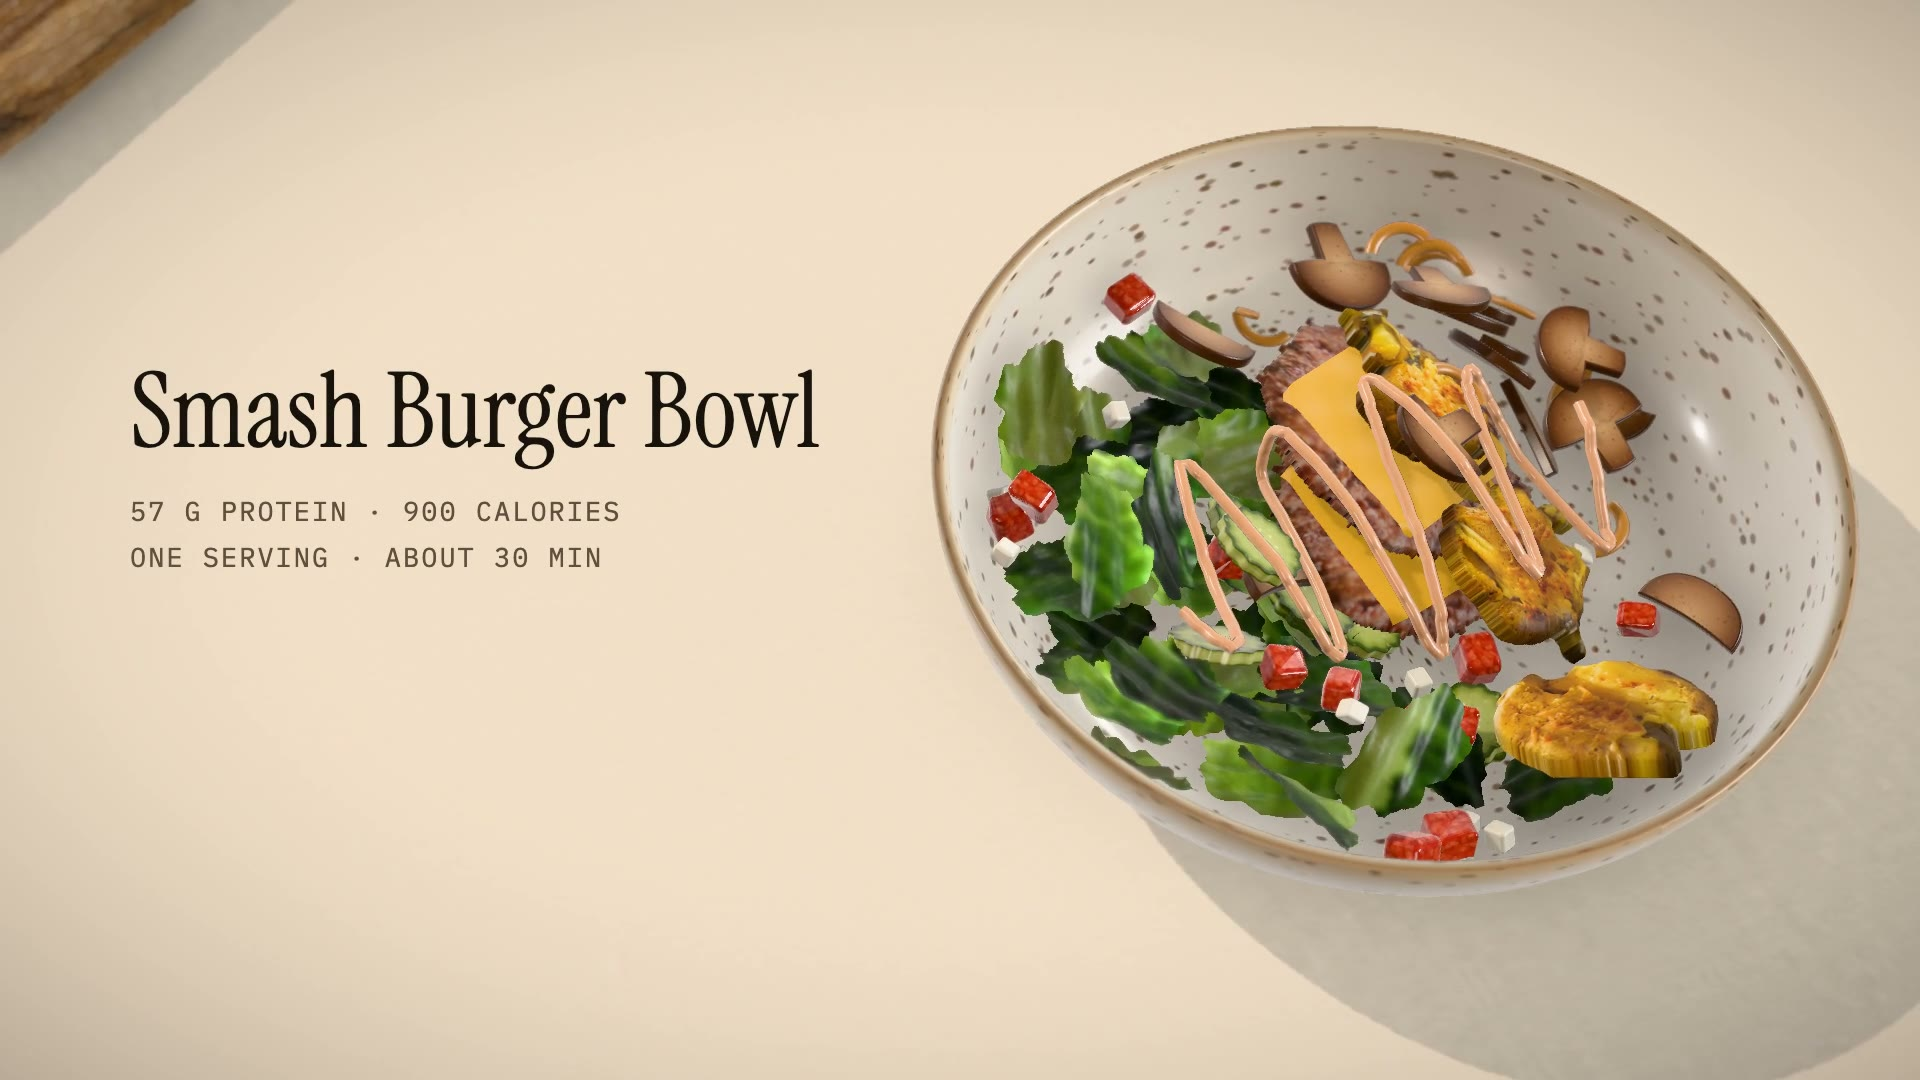
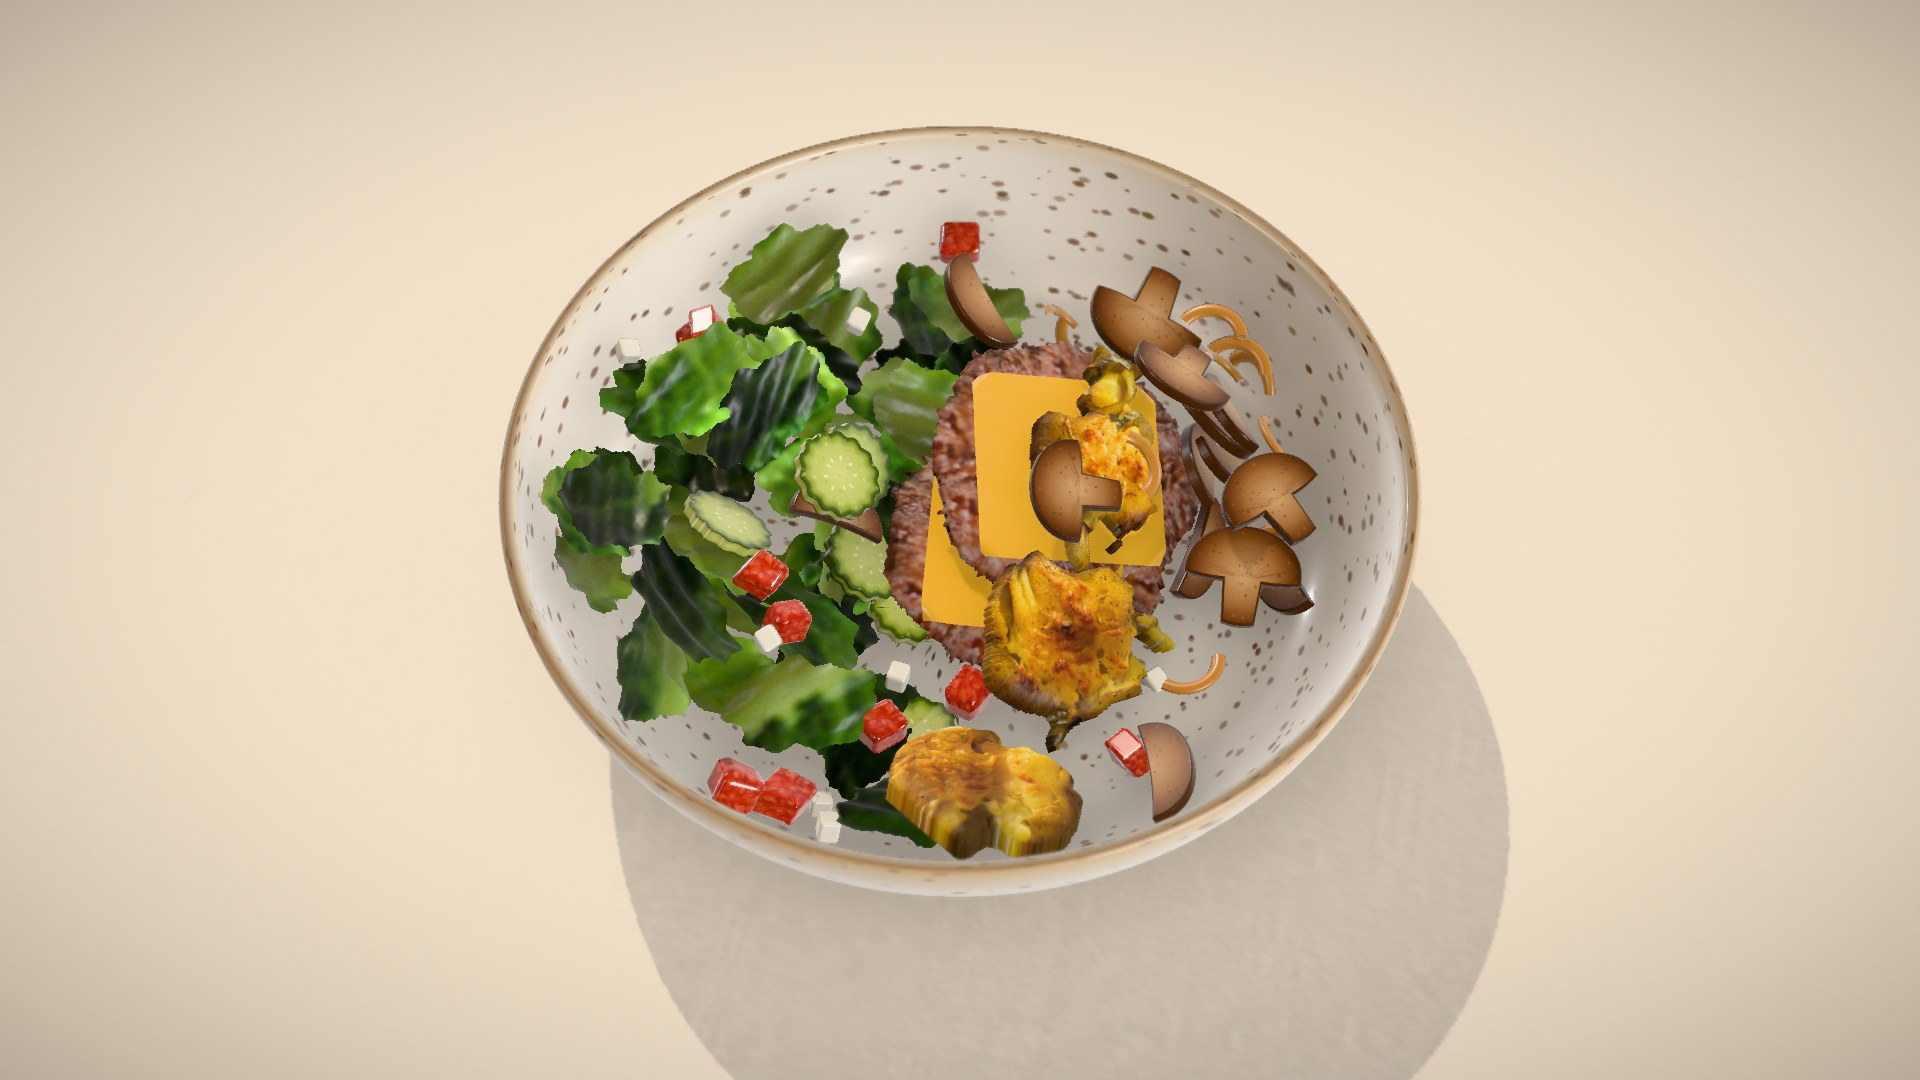
Feature the how-to video beside the recipe title, without a credits list
Liam: the video was tacked onto the bottom of the page, and the credits list under it
was more than the page needs.

- The video now sits beside the title on wider screens and right under the recipe
  details on a phone, framed and with a short caption.
- Its poster is the finished bowl with no text, a new smash-burger-bowl-poster still
  that render.mjs renders. It no longer repeats the title next to the page's own.
- The credits list and the video.credits field are gone. Sources and licenses stay in
  video/CREDITS.md.

diff --git a/app/recipes/[slug]/page.tsx b/app/recipes/[slug]/page.tsx
@@ -101,7 +101,6 @@ function RecipeContent({ recipe }: { recipe: Recipe }) {
         <Steps recipe={recipe} />
       </div>
 
-      {recipe.video && <HowToVideo video={recipe.video} title={recipe.title} />}
       {recipe.image && <RecipePhoto image={recipe.image} />}
       <Tags tags={recipe.tags} />
 
@@ -115,7 +114,7 @@ function RecipeContent({ recipe }: { recipe: Recipe }) {
 }
 
 /* ------------------------------------------------------------------ */
-/* Header - title, summary, version choice, meta row                   */
+/* Header - title, summary, version choice, meta row, and the video    */
 /* ------------------------------------------------------------------ */
 
 function RecipeHeader({ recipe }: { recipe: Recipe }) {
@@ -144,25 +143,32 @@ function RecipeHeader({ recipe }: { recipe: Recipe }) {
       </div>
       <CookModeStatus className="mt-3 text-[16px] text-white/80" />
 
-      <h1 className="recipe-title display-serif mt-5 text-[clamp(2.5rem,6vw,5rem)] leading-[1] text-white">
-        {recipe.title}
-      </h1>
-      <p className="recipe-summary mt-4 max-w-[46rem] font-serif text-[clamp(1.125rem,1.6vw,1.375rem)] leading-[1.3] text-white/75">
-        {recipe.summary}
-      </p>
-      <VersionPicker className="mt-6" />
+      {/* With a video, it sits beside the title on wider screens and under the details
+          on a phone, so it is the first thing after the recipe's name. */}
+      <div className={recipe.video ? "lg:grid lg:grid-cols-12 lg:items-start lg:gap-12" : undefined}>
+        <div className={recipe.video ? "lg:col-span-6 xl:col-span-7" : undefined}>
+          <h1 className="recipe-title display-serif mt-5 text-[clamp(2.5rem,6vw,5rem)] leading-[1] text-white">
+            {recipe.title}
+          </h1>
+          <p className="recipe-summary mt-4 max-w-[46rem] font-serif text-[clamp(1.125rem,1.6vw,1.375rem)] leading-[1.3] text-white/75">
+            {recipe.summary}
+          </p>
+          <VersionPicker className="mt-6" />
 
-      <dl className="recipe-meta mt-6 flex flex-wrap gap-x-7 gap-y-2">
-        {meta.map((m) => (
-          <div key={m.label} className="flex items-baseline gap-2">
-            <dt className="text-[14px] uppercase tracking-[0.06em] text-white/60">{m.label}</dt>
-            <dd className="text-[17px] text-white">{m.value}</dd>
-          </div>
-        ))}
-      </dl>
-      {recipe.servingsNote && (
-        <p className="recipe-serving-note mt-2 text-[15px] text-white/60">{recipe.servingsNote}</p>
-      )}
+          <dl className="recipe-meta mt-6 flex flex-wrap gap-x-7 gap-y-2">
+            {meta.map((m) => (
+              <div key={m.label} className="flex items-baseline gap-2">
+                <dt className="text-[14px] uppercase tracking-[0.06em] text-white/60">{m.label}</dt>
+                <dd className="text-[17px] text-white">{m.value}</dd>
+              </div>
+            ))}
+          </dl>
+          {recipe.servingsNote && (
+            <p className="recipe-serving-note mt-2 text-[15px] text-white/60">{recipe.servingsNote}</p>
+          )}
+        </div>
+        {recipe.video && <HowToVideo video={recipe.video} title={recipe.title} className="mt-8 lg:col-span-6 lg:mt-6 xl:col-span-5" />}
+      </div>
     </header>
   );
 }
@@ -219,30 +225,21 @@ function Tags({ tags }: { tags: string[] }) {
 /* How-to video (screen only)                                          */
 /* ------------------------------------------------------------------ */
 
-function HowToVideo({ video, title }: { video: RecipeVideo; title: string }) {
+function HowToVideo({ video, title, className = "" }: { video: RecipeVideo; title: string; className?: string }) {
   return (
-    <section aria-labelledby="how-to" className="print-hidden mt-16 md:mt-20">
-      <h2 id="how-to" className="section-tag text-white/60">
-        WATCH THE HOW-TO
-      </h2>
+    <figure className={`recipe-video print-hidden ${className}`}>
       <video
         controls
         playsInline
         preload="none"
         poster={video.poster}
         aria-label={`${title}: narrated step-by-step how-to video, with captions`}
-        className="mt-6 aspect-video w-full bg-white/5"
+        className="aspect-video w-full border border-white/15 bg-[#efe8dc] shadow-[0_24px_60px_rgba(0,0,0,0.5)]"
       >
         <source src={video.src} type="video/mp4" />
       </video>
-      {video.credits.length > 0 && (
-        <ul className="mt-4 space-y-1 text-sm text-white/45">
-          {video.credits.map((line) => (
-            <li key={line}>{line}</li>
-          ))}
-        </ul>
-      )}
-    </section>
+      <figcaption className="mt-3 text-[13px] uppercase tracking-[0.08em] text-white/60">Watch it made, start to finish</figcaption>
+    </figure>
   );
 }
 

diff --git a/tests/recipes.test.ts b/tests/recipes.test.ts
@@ -203,8 +203,6 @@ test("requires a local image to exist in the public folder", () => {
 const MEDIA = `video:
   src: "/recipes/test-bowl/how-to.mp4"
   poster: "/recipes/test-bowl/how-to-poster.jpg"
-  credits:
-    - "Music: a track by someone on Freesound (CC0)"
 `;
 
 test("accepts a video only when its files are in the public folder", () => {
@@ -218,16 +216,11 @@ test("accepts a video only when its files are in the public folder", () => {
   }
   const [r] = loadRecipes(dir, publicDir);
   assert.equal(r.video?.poster, "/recipes/test-bowl/how-to-poster.jpg");
-  assert.deepEqual(r.video?.credits, ["Music: a track by someone on Freesound (CC0)"]);
 });
 
-test("rejects a video that is not a path in the public folder, or credits that are not text", () => {
+test("rejects a video that is not a path in the public folder", () => {
   const remote = MEDIA.replace('"/recipes/test-bowl/how-to.mp4"', '"https://example.com/a.mp4"');
   assert.match(problems(edit("tags: [quick]", `${remote}tags: [quick]`)), /video\.src must be a path in the public folder/);
-  const badCredit = MEDIA.replace('    - "Music: a track by someone on Freesound (CC0)"', "    - { who: someone }");
-  assert.match(problems(edit("tags: [quick]", `${badCredit}tags: [quick]`)), /video\.credits\[0\]/);
-  const noCredits = MEDIA.replace('  credits:\n    - "Music: a track by someone on Freesound (CC0)"\n', "");
-  assert.deepEqual(parseRecipe(edit("tags: [quick]", `${noCredits}tags: [quick]`), "test-bowl.md").video?.credits, []);
 });
 
 // A second version of the test bowl, named and pointing at the main one.

diff --git a/video/src/Root.tsx b/video/src/Root.tsx
@@ -5,6 +5,7 @@ import { PROOF_FRAMES, ProductShot } from "./proof/ProductShot";
 import { BOWL3D_FRAMES, Bowl3D } from "./proof/Bowl3D";
 import { BOWL_REAL_FRAMES, BowlReal } from "./proof/BowlReal";
 import { HOWTO_FRAMES, HowTo } from "./howto/HowTo";
+import { PosterShot } from "./howto/bowlScenes";
 
 // The v4 how-to video (docs/recipes-media-v4.md): wide for the recipe page, with the
 // recipe's slug as its id, and vertical for phones.
@@ -13,6 +14,7 @@ export function RemotionRoot() {
     <>
       <Composition id="smash-burger-bowl" component={HowTo} durationInFrames={HOWTO_FRAMES} fps={30} width={1920} height={1080} defaultProps={{ draft: false, tall: false }} />
       <Composition id="smash-burger-bowl-vertical" component={HowTo} durationInFrames={HOWTO_FRAMES} fps={30} width={1080} height={1920} defaultProps={{ draft: false, tall: true }} />
+      <Still id="smash-burger-bowl-poster" component={PosterShot} width={1920} height={1080} />
       <Still id="smash-burger-bowl-blueprint" component={BlueprintSheet} width={3200} height={2200} />
       <Composition id="proof-product-shot" component={ProductShot} durationInFrames={PROOF_FRAMES} fps={30} width={1920} height={1080} />
       <Composition id="proof-bowl-3d" component={Bowl3D} durationInFrames={BOWL3D_FRAMES} fps={30} width={1920} height={1080} />

diff --git a/lib/recipes.ts b/lib/recipes.ts
@@ -19,9 +19,8 @@ export type RecipeImage = {
   credit?: string;
   creditUrl?: string;
 };
-/** A short how-to video and its poster frame, both in public/, and credit lines for
- * the photos, models, sounds, and voice it uses. */
-export type RecipeVideo = { src: string; poster: string; credits: string[] };
+/** A short how-to video and its poster frame. Both live in public/. */
+export type RecipeVideo = { src: string; poster: string };
 export type Nutrition = {
   calories: number;
   protein: number;
@@ -315,12 +314,8 @@ export function parseRecipe(source: string, fileName: string): Recipe {
   let video: RecipeVideo | undefined;
   if (top.video !== undefined && top.video !== null) {
     const v = c.object(top.video, "video");
-    c.fields(v, ["src", "poster", "credits"], "video.");
-    video = {
-      src: localPath(c, v, "src", "video."),
-      poster: localPath(c, v, "poster", "video."),
-      credits: c.list(v, "credits", "video.", true).map((t, i) => c.textValue(t, `video.credits[${i}]`) ?? ""),
-    };
+    c.fields(v, ["src", "poster"], "video.");
+    video = { src: localPath(c, v, "src", "video."), poster: localPath(c, v, "poster", "video.") };
   }
 
   const tags = c.list(top, "tags", "").map((t, i) => c.textValue(t, `tags[${i}]`) ?? "");

diff --git a/video/src/howto/bowlScenes.tsx b/video/src/howto/bowlScenes.tsx
@@ -155,6 +155,19 @@ function Finish({ s }: { s: SceneProps }) {
   );
 }
 
+/** The finished bowl on its own, centered, with no title or caption: the video's poster
+ * frame on the recipe page. The same shot the build scene ends on. */
+export function PosterShot() {
+  const s: SceneProps = { len: 1, beats: [0], draft: false, tall: false };
+  const { position, target } = orbit(AZ.buildOut, 0, 0, CLOSE);
+  return (
+    <Stage s={s}>
+      <Shot position={position} target={target} draft={false} />
+      <BowlSet tall={false} frame={0} poseOf={(i) => droppedPose(i, LAST)} />
+    </Stage>
+  );
+}
+
 export function FinishScene({ s }: { s: SceneProps }) {
   const f = useCurrentFrame();
   return (

diff --git a/docs/recipes-media-v4.md b/docs/recipes-media-v4.md
@@ -169,9 +169,10 @@ One independent correctness pass covered the new code. Its eight findings were e
 
 - The wide cut has the recipe's own id, `smash-burger-bowl`. `pnpm render <slug>` in `video/` renders both cuts into `video/out/`, then writes the web copy and the poster into `public/recipes/<slug>/`.
   - The web copy is CRF 28 with fast start: 16 MB, against 40 MB for the master. At full size it looks the same as the master, apart from slightly smoother meat texture.
-  - The poster is the last frame of the opening scene: the title, with no caption.
+  - The poster is the `<slug>-poster` still: the finished bowl, centered, with no title or caption.
   - Only the pieces of that script were checked, not a full end-to-end run.
-- The page shows the video after the steps, with a short credits list under it from the recipe's `video.credits`.
+- The video sits beside the recipe's title on wider screens, and under the recipe details on a phone. Liam asked for that on 2026-11-02 after it first went live at the bottom of the page.
+- The page lists no credits (Liam: not necessary). The sources and licenses stay in `video/CREDITS.md`.
 - The v3 blueprint sheet is not on the page, and the recipe format no longer has a `blueprint` field.
 - The old v3 composition is still in `video/src/Video.tsx` but no longer registered.
 
@@ -196,4 +197,4 @@ One independent correctness pass covered the new code. Its eight findings were e
 | Music bed and cooking sounds | Built. The six CC0 files were downloaded with Liam's OK. In the final mix, the music and effects sit 11 to 20 dB under the voice, scene by scene, with a peak of -3.5 dBFS. This is measured, not listened to. |
 | Credits file `video/CREDITS.md` | Built. Every photo, model, texture, sound, font, voice, and library is credited. |
 | Wiring the video into the recipe page | Built (see "On the recipe page") |
-| Asset credits on the recipe page | Built: short credit lines under the video, with the full list in `video/CREDITS.md` |
+| Asset credits on the recipe page | Dropped at Liam's request; the record stays in `video/CREDITS.md` |

diff --git a/content/recipes/README.md b/content/recipes/README.md
@@ -24,7 +24,7 @@ Only publish a recipe after it has been cooked and tested.
 | `prepMinutes`, `cookMinutes`, `totalMinutes` | Yes | Whole numbers of minutes. |
 | `tags` | Yes | A list, such as `[high-protein, meal-prep, beef]`. |
 | `image` | No | A photo with `src`, `alt`, and, for photos that are not yours, `credit` and `creditUrl`. `src` is a path under `public/` (starting with `/`) or an `images.unsplash.com` link. `alt` describes the photo for screen readers. |
-| `video` | No | A how-to video with `src` and `poster`, both paths under `public/`, and optional `credits` lines shown under it. See "How-to videos" below. |
+| `video` | No | A how-to video with `src` and `poster`, both paths under `public/`. It shows beside the title. See "How-to videos" below. |
 | `ingredients` | Yes | A list of groups. Each group has an optional `name` and a list of `items`. |
 | `steps` | Yes | A list. Each step has a `title`, optional `minutes`, and `text`. |
 | `tips` | No | A list. Each tip has an optional `title` and `text`. |
@@ -44,4 +44,4 @@ The text after the second `---` line is the chef's notes: plain paragraphs separ
 
 A how-to video is optional and lives in `public/recipes/<slug>/`. It is made in `video/` (see `video/README.md` and `docs/recipes-media-v4.md`). Running `pnpm render <slug>` inside `video/` writes `how-to.mp4` and `how-to-poster.jpg` into the recipe's public folder.
 
-Then add the `video` field to the recipe file, with a `credits` line for each kind of outside material the video uses (photos, models, music and sounds, voice). `video/CREDITS.md` has the full list. The build fails if a listed file is missing.
+Then add the `video` field to the recipe file. The build fails if a listed file is missing. The sources and licenses of everything in the video are kept in `video/CREDITS.md`; the page does not list them.

diff --git a/content/recipes/smash-burger-bowl.md b/content/recipes/smash-burger-bowl.md
@@ -18,11 +18,6 @@ image:
 video:
   src: "/recipes/smash-burger-bowl/how-to.mp4"
   poster: "/recipes/smash-burger-bowl/how-to-poster.jpg"
-  credits:
-    - "Food photos: Alpha Perspective, Maude Frédérique Lavoie, and Terry Jaskiw on Unsplash"
-    - "3D models and lighting: Kuutti Siitonen, Dimitrios Savva, Rico Cilliers, and Sergej Majboroda on Poly Haven (CC0)"
-    - "Music and sounds: MrCatfishing, simosco, davidkay, Erbsland-Music, MilanKovanda, and Anthousai on Freesound (CC0)"
-    - "Voice: Kokoro (Apache 2.0)"
 
 ingredients:
   - name: "Burger"

diff --git a/content/recipes/_template.md b/content/recipes/_template.md
@@ -22,8 +22,6 @@ image:
 # video:
 #   src: "/recipes/recipe-title/how-to.mp4"
 #   poster: "/recipes/recipe-title/how-to-poster.jpg"
-#   credits:
-#     - "Music and sounds: Name on Freesound (CC0)"
 
 ingredients:
   - name: "Optional group name, such as Sauce"
